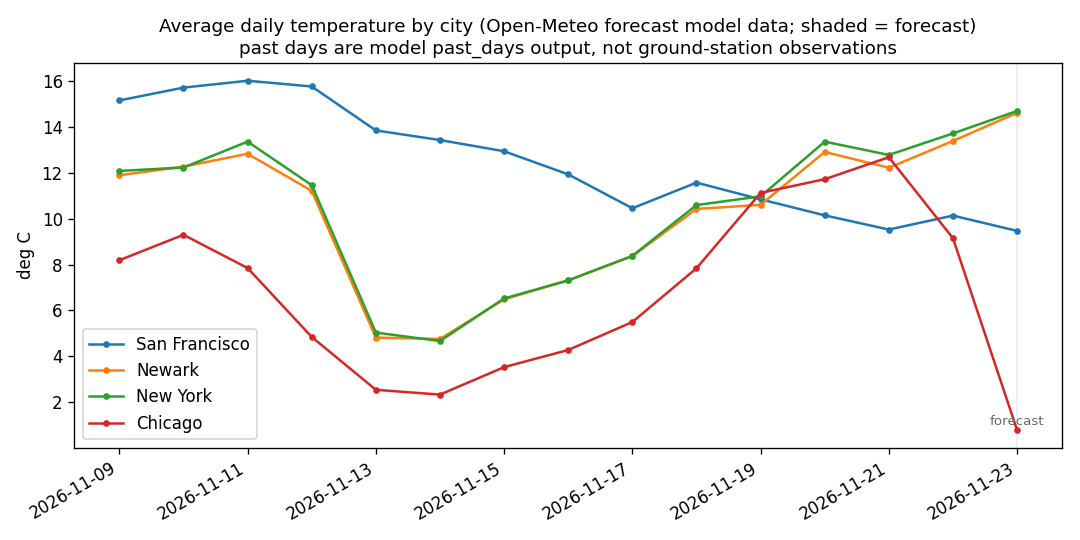
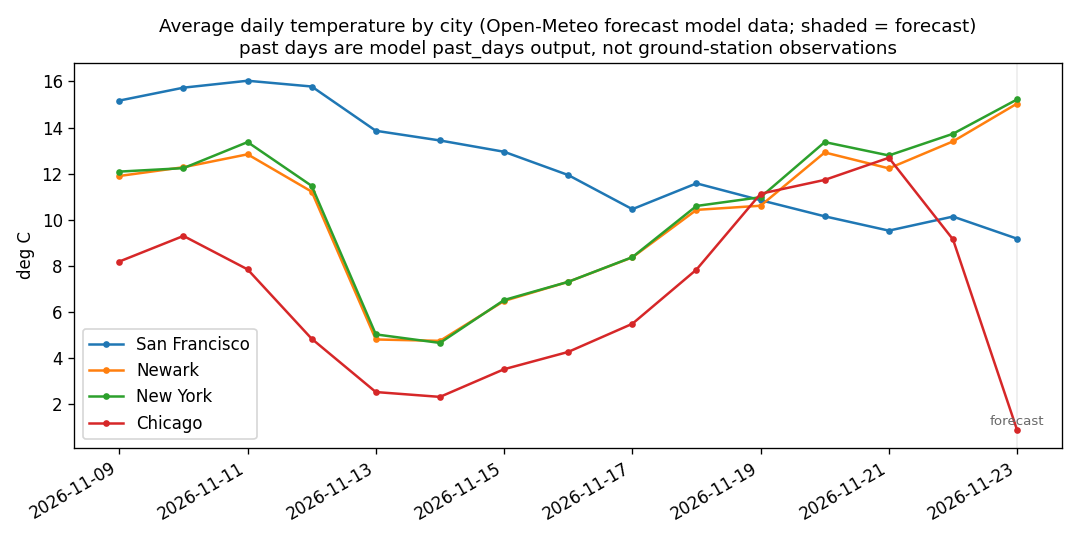
Add warmest/coldest completed day per city; refresh data

diff --git a/src/weatherwh/dashboard.py b/src/weatherwh/dashboard.py
@@ -88,6 +88,28 @@ def dry_streaks(con, now_utc: dt.datetime | None = None, wet_mm: float = 1.0) ->
     return out
 
 
+def temperature_records(con, now_utc: dt.datetime | None = None) -> list[dict]:
+    """Per city, the warmest and coldest completed day by average temperature
+    (in-progress days are skipped: they include forecast hours). Model
+    output, within the data window only, not climatological records."""
+    from .extremes import day_status
+
+    rows = con.execute(
+        "SELECT city, day, avg_temp_c FROM mart_daily_city "
+        "WHERE avg_temp_c IS NOT NULL ORDER BY city, day").fetchall()
+    per: dict[str, list] = {}
+    for city, day, avg in rows:
+        if day_status(city, day, now_utc) == "complete":
+            per.setdefault(city, []).append((day, avg))
+    out = []
+    for city, days in sorted(per.items()):
+        warm = max(days, key=lambda d: (d[1], d[0]))
+        cold = min(days, key=lambda d: (d[1], d[0]))
+        out.append({"city": city, "warmest_day": warm[0], "warmest_c": warm[1],
+                    "coldest_day": cold[0], "coldest_c": cold[1], "days": len(days)})
+    return out
+
+
 def plot_rain_totals(con, out_path, now_utc: dt.datetime | None = None, wet_days: bool = True) -> bool:
     """Total rain per city over completed days only (in-progress days include
     forecast hours and would skew totals). Bars annotated with the number of
@@ -191,6 +213,15 @@ def render_markdown(con, generated_at: dt.datetime | None = None) -> str:
                   "| City | Current streak (days) | Longest streak (days) |", "| --- | ---: | ---: |"]
         for d in streaks:
             lines.append(f"| {d['city']} | {d['current_dry_days']} | {d['longest_dry_days']} |")
+    temps = temperature_records(con)
+    if temps:
+        lines += ["", "## Warmest and coldest completed days", "",
+                  "By daily average temperature, within the current data window only. Model output, not climate records.", "",
+                  "| City | Warmest day | Avg C | Coldest day | Avg C | Days compared |",
+                  "| --- | --- | ---: | --- | ---: | ---: |"]
+        for t in temps:
+            lines.append(f"| {t['city']} | {t['warmest_day']} | {t['warmest_c']} | "
+                         f"{t['coldest_day']} | {t['coldest_c']} | {t['days']} |")
     lines += ["", "![Total rain per city](rain_totals.png)", ""]
     lines += ["", "![Daily temperature range by city](temp_range_by_city.png)", ""]
     severe = extremes.severe_days(con)[:8]

diff --git a/tests/test_extremes.py b/tests/test_extremes.py
@@ -221,3 +221,18 @@ def test_plot_rain_totals_completed_days_only(tmp_path):
     assert dashboard.plot_rain_totals(con, tmp_path / "r.png", now_utc=now) is True
     assert (tmp_path / "r.png").stat().st_size > 1000
     assert "rain_totals.png" in dashboard.render_markdown(con)
+
+
+def test_temperature_records_complete_days_only():
+    con = warehouse.connect(":memory:")
+    rows = [{"city": "A", "hour": T0 + dt.timedelta(days=d), "ingested_at": T0,
+             "temperature_2m": t, "precipitation": 0.0, "wind_speed_10m": 5.0}
+            for d, t in [(0, 8.0), (1, 15.0), (2, 3.0), (3, 30.0)]]
+    warehouse.refresh(con, rows)
+    now = dt.datetime(2026, 11, 4, 12, tzinfo=dt.timezone.utc)   # day offset 3 in progress: excluded
+    out = dashboard.temperature_records(con, now_utc=now)
+    assert out == [{"city": "A", "warmest_day": dt.date(2026, 11, 2), "warmest_c": 15.0,
+                    "coldest_day": dt.date(2026, 11, 3), "coldest_c": 3.0, "days": 3}]
+    assert "Warmest and coldest completed days" in dashboard.render_markdown(con)
+    assert dashboard.temperature_records(_empty()) == []
+    con.close()

diff --git a/reports/dashboard.md b/reports/dashboard.md
@@ -1,13 +1,13 @@
 # Weather Warehouse - daily dashboard
 
-Generated 2026-11-23 12:06 UTC.
+Generated 2026-11-23 15:07 UTC.
 
 | city | day | avg_temp_c | min_temp_c | max_temp_c | total_precip_mm | max_wind_kmh | hours_observed |
 | --- | --- | --- | --- | --- | --- | --- | --- |
-| Chicago | 2026-11-23 | 0.77 | -1.2 | 3.6 | 0.0 | 17.1 | 24 |
-| New York | 2026-11-23 | 14.71 | 7.4 | 20.6 | 0.0 | 22.1 | 24 |
-| Newark | 2026-11-23 | 14.63 | 7.3 | 20.7 | 0.0 | 19.4 | 24 |
-| San Francisco | 2026-11-23 | 9.47 | 6.6 | 12.5 | 0.0 | 10.4 | 24 |
+| Chicago | 2026-11-23 | 0.88 | -1.2 | 3.8 | 0.0 | 16.6 | 24 |
+| New York | 2026-11-23 | 15.22 | 9.1 | 20.7 | 0.0 | 20.1 | 24 |
+| Newark | 2026-11-23 | 15.04 | 8.4 | 20.7 | 0.0 | 19.4 | 24 |
+| San Francisco | 2026-11-23 | 9.18 | 6.1 | 12.2 | 0.0 | 10.7 | 24 |
 | Chicago | 2026-11-22 | 9.15 | 2.7 | 13.3 | 1.8 | 20.0 | 24 |
 | New York | 2026-11-22 | 13.73 | 12.2 | 15.4 | 0.0 | 12.9 | 24 |
 | Newark | 2026-11-22 | 13.4 | 11.3 | 15.5 | 0.0 | 11.5 | 24 |
@@ -41,7 +41,7 @@ Hours at or above 30C / at or below 0C and degree-hours beyond each threshold. I
 
 | city | heat hours | cold hours | heat degree-hours | cold degree-hours |
 | --- | ---: | ---: | ---: | ---: |
-| Chicago | 0 | 28 | 0.0 | 13.8 |
+| Chicago | 0 | 27 | 0.0 | 13.3 |
 | New York | 0 | 0 | 0.0 | 0.0 |
 | Newark | 0 | 0 | 0.0 | 0.0 |
 | San Francisco | 0 | 0 | 0.0 | 0.0 |
@@ -84,10 +84,10 @@ Last successful Open-Meteo fetch per city (empty or failed fetches do not count)
 
 | City | Last successful fetch | Age (h) | Failed fetches since | Latest hour held |
 | --- | --- | ---: | ---: | --- |
-| Chicago | 2026-11-23 07:06:25.152428 | 0.0 | 0 | 2026-11-23 23:00:00 |
-| New York | 2026-11-23 07:06:25.152428 | 0.0 | 0 | 2026-11-23 23:00:00 |
-| Newark | 2026-11-23 07:06:25.152428 | 0.0 | 0 | 2026-11-23 23:00:00 |
-| San Francisco | 2026-11-23 07:06:25.152428 | 0.0 | 0 | 2026-11-23 23:00:00 |
+| Chicago | 2026-11-23 10:07:16.692724 | 0.0 | 0 | 2026-11-23 23:00:00 |
+| New York | 2026-11-23 10:07:16.692724 | 0.0 | 0 | 2026-11-23 23:00:00 |
+| Newark | 2026-11-23 10:07:16.692724 | 0.0 | 0 | 2026-11-23 23:00:00 |
+| San Francisco | 2026-11-23 10:07:16.692724 | 0.0 | 0 | 2026-11-23 23:00:00 |
 
 ## Dry-day streaks (rain under 1 mm)
 
@@ -99,6 +99,17 @@ Consecutive completed days below 1 mm of rain. Model output; illustrative, not a
 | New York | 9 | 9 |
 | Newark | 9 | 9 |
 | San Francisco | 1 | 4 |
+
+## Warmest and coldest completed days
+
+By daily average temperature, within the current data window only. Model output, not climate records.
+
+| City | Warmest day | Avg C | Coldest day | Avg C | Days compared |
+| --- | --- | ---: | --- | ---: | ---: |
+| Chicago | 2026-11-21 | 12.69 | 2026-11-14 | 2.32 | 14 |
+| New York | 2026-11-22 | 13.73 | 2026-11-14 | 4.66 | 14 |
+| Newark | 2026-11-22 | 13.4 | 2026-11-14 | 4.75 | 14 |
+| San Francisco | 2026-11-11 | 16.03 | 2026-11-21 | 9.53 | 14 |
 
 ![Total rain per city](rain_totals.png)
 
